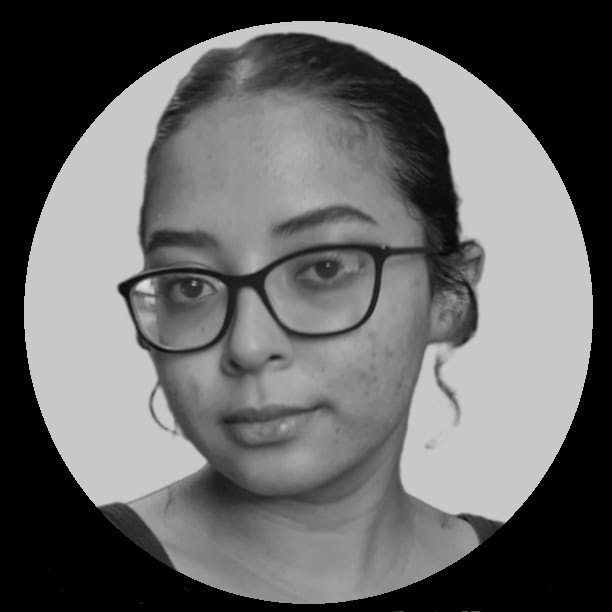
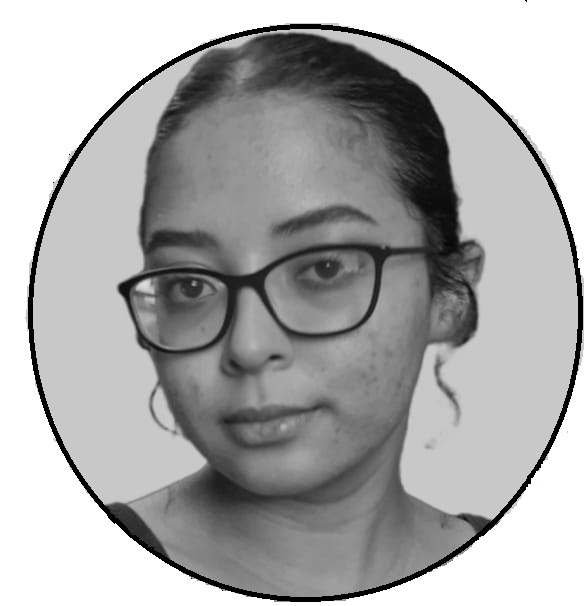
About

diff --git a/src/components/About.js b/src/components/About.js
@@ -1,0 +1,26 @@
+import './About.css';
+import me from './img/me.jpeg';
+
+function About(){
+    return(
+        <div className='about'>
+            <img className={'me'} alt="Myself" src={me} />
+            
+            <div className='about-info'>
+                <hr></hr>
+                    <h1>What Im I?</h1>
+                    <p>
+                        I am an web developer and  student  who is ready to work hard.
+                    </p>
+                    <div className='idioma'>
+                        <h4>language</h4>
+                        <div>
+                            <h5>PT</h5>
+                            <h5>ENG</h5>
+                        </div>
+                    </div>
+            </div>
+        </div>
+    )
+}
+export default About;

diff --git a/src/components/About.css b/src/components/About.css
@@ -1,0 +1,29 @@
+.about{
+    display: flex;
+    flex-direction: row;
+    justify-content: space-evenly;
+    border: 2px solid black;
+    border-radius: 20px;
+    margin: 10px;
+    padding: 30px;
+}
+.me{
+    padding: 10px;
+    width: 150px;
+}
+.idioma{
+    display:flex ;
+    flex-direction: row;
+    float: right;
+}
+.idioma > h4{
+    padding-top: 20px;
+}
+.idioma > div > h5{
+    width: 40px;
+    font-size: small;
+    color: white;
+    background-color: black;
+    padding: 10px;
+    border-radius: 50px;
+}

diff --git a/src/App.js b/src/App.js
@@ -2,12 +2,14 @@ import './App.css';
 import Intro from './components/Intro';
 import Project from './components/Project';
 import Nav from './components/Nav';
+import About from './components/About'
 
 function App() {
   return (
     <div className="App">
       <Nav />
       <Intro />
+      <About />
       <Project />
     </div>
   );
